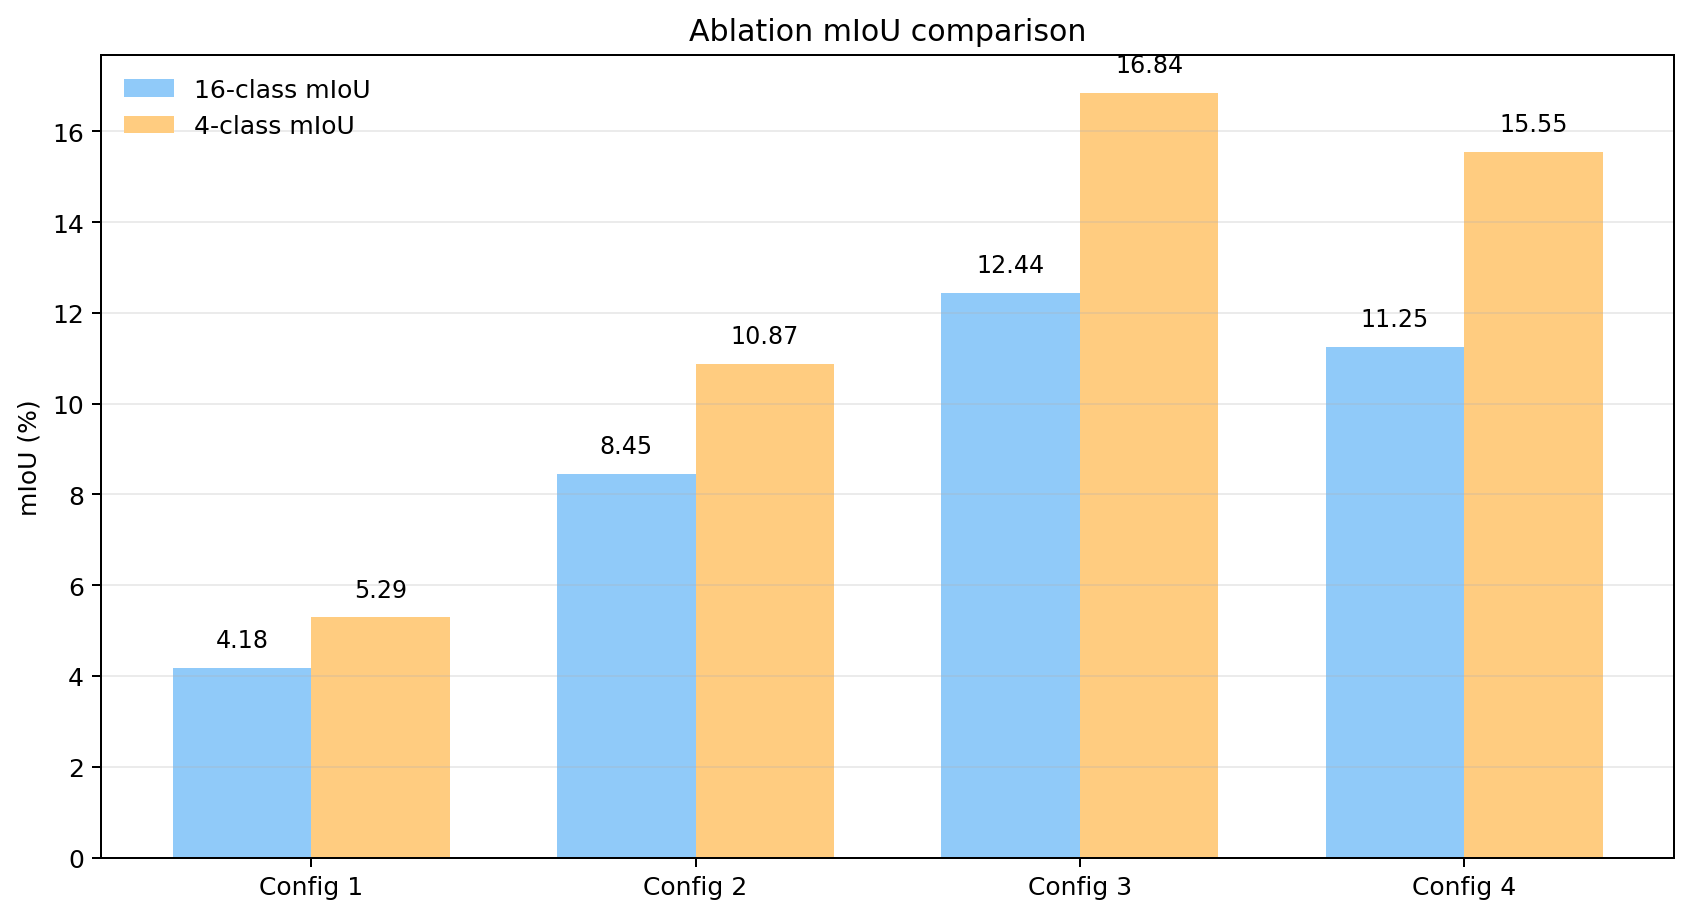
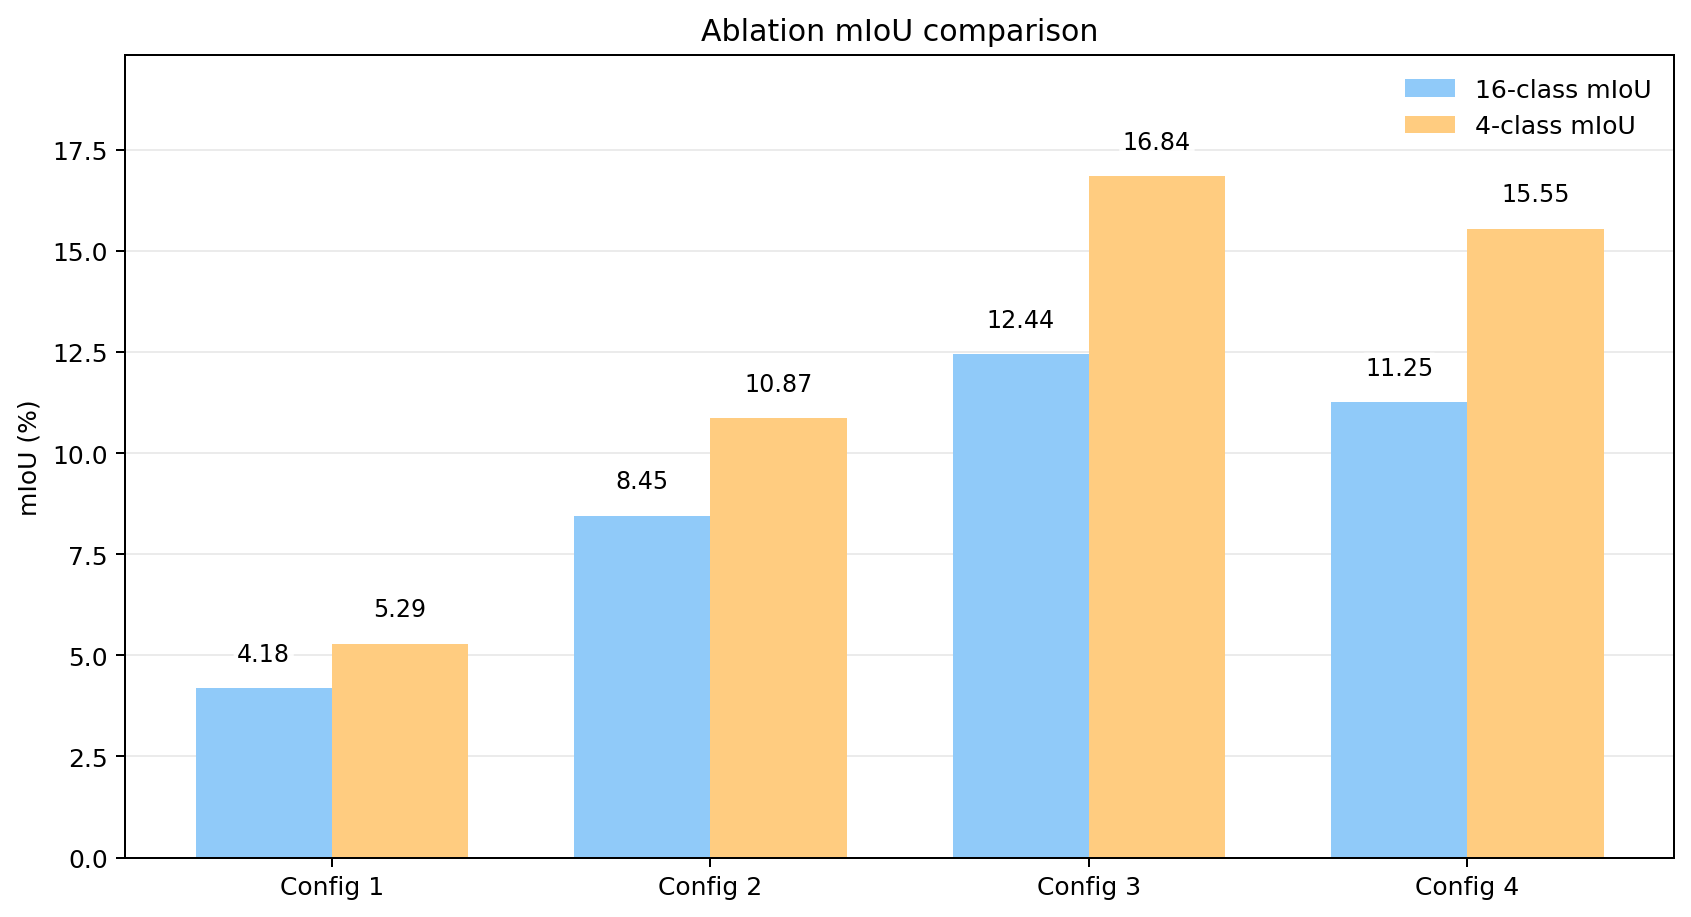
feat: update figure generation script with improved layout, styling, and legend for qualitative comparisons

diff --git a/scripts/generate_report_figures.py b/scripts/generate_report_figures.py
@@ -8,7 +8,7 @@ import matplotlib
 import matplotlib.pyplot as plt
 import numpy as np
 import torch
-from matplotlib.patches import FancyArrowPatch, Rectangle
+from matplotlib.patches import FancyArrowPatch, Patch, Rectangle
 
 matplotlib.use("Agg")
 
@@ -135,8 +135,8 @@ def make_tiling_grid(src_las: Path, tiling_meta_path: Path, out_path: Path):
                 block_size,
                 fill=False,
                 edgecolor="#ef6c00",
-                linewidth=0.45,
-                alpha=0.45,
+                linewidth=0.85,
+                alpha=0.5,
             )
             ax.add_patch(rect)
 
@@ -145,7 +145,17 @@ def make_tiling_grid(src_las: Path, tiling_meta_path: Path, out_path: Path):
     for (gx, gy), label in zip(highlighted, labels):
         rect = Rectangle((gx, gy), block_size, block_size, fill=False, edgecolor="#c62828", linewidth=1.6)
         ax.add_patch(rect)
-        ax.text(gx + 1.0, gy + block_size - 1.2, label, color="#c62828", fontsize=8, weight="bold")
+        ax.text(
+            gx + 1.2,
+            gy + block_size - 1.8,
+            label,
+            color="#c62828",
+            fontsize=10,
+            weight="bold",
+            va="top",
+            bbox={"boxstyle": "round,pad=0.2", "facecolor": "white", "edgecolor": "none", "alpha": 0.9},
+            zorder=6,
+        )
 
     ax.set_title(f"Tiling grid ({block_size:.0f}m block, {stride:.0f}m stride)")
     ax.set_xlabel("X")
@@ -245,7 +255,7 @@ def remap_16_to_4(pred16: np.ndarray) -> np.ndarray:
 
 
 def pick_comparison_tile_name(results_ablation_dir: Path):
-    preferred = "Fh_parking_outside_2025-09-19-17-08-32_Section_Section_normal_tile_0050.pth"
+    preferred = "Fh_parking_outside_2025-09-19-17-08-32_Section_Section_normal_tile_0020.pth"
     config_dirs = [
         results_ablation_dir / "config1_baseline",
         results_ablation_dir / "config2_zero",
@@ -276,7 +286,7 @@ def plot_semantic(ax, x, y, labels4, title):
     for cls_id, color in cmap.items():
         color_arr[labels4 == cls_id] = color
     ax.scatter(x, y, c=color_arr, s=1.2, alpha=0.9, linewidths=0)
-    ax.set_title(title, fontsize=10)
+    ax.set_title(title, fontsize=11)
     ax.set_aspect("equal")
     ax.set_xticks([])
     ax.set_yticks([])
@@ -294,14 +304,9 @@ def make_qualitative_comparison(processed_tiles_dir: Path, results_ablation_dir:
     idx = subsample_indices(coord.shape[0], max_points=180_000, seed=9)
     x = coord[idx, 0]
     y = coord[idx, 1]
-    z = coord[idx, 2]
 
-    fig, axes = plt.subplots(1, 5, figsize=(18, 4.2), dpi=180)
-    axes[0].scatter(x, y, c=z, cmap="viridis", s=1.1, alpha=0.9, linewidths=0)
-    axes[0].set_title("Raw geometry", fontsize=10)
-    axes[0].set_aspect("equal")
-    axes[0].set_xticks([])
-    axes[0].set_yticks([])
+    fig = plt.figure(figsize=(12.8, 9.2), dpi=180)
+    gs = fig.add_gridspec(2, 2, hspace=0.16, wspace=0.10)
 
     config_dirs = [
         ("Baseline", results_ablation_dir / "config1_baseline"),
@@ -310,15 +315,26 @@ def make_qualitative_comparison(processed_tiles_dir: Path, results_ablation_dir:
         ("Rings 0.03°", results_ablation_dir / "config4_velodyne_thin"),
     ]
 
-    for ax, (title, cdir) in zip(axes[1:], config_dirs):
+    positions = [(0, 0), (0, 1), (1, 0), (1, 1)]
+    for (row, col), (title, cdir) in zip(positions, config_dirs):
+        ax = fig.add_subplot(gs[row, col])
         logits = torch.load(cdir / tile_name, map_location="cpu", weights_only=False)
         pred16 = torch.argmax(logits, dim=1).cpu().numpy()
         pred4 = remap_16_to_4(pred16)
         pred4 = pred4[idx]
         plot_semantic(ax, x, y, pred4, title)
 
-    fig.suptitle(f"Qualitative comparison on {tile_name.replace('.pth', '')}", fontsize=11)
-    plt.tight_layout()
+    # Add legend for semantic classes
+    legend_elements = [
+        Patch(facecolor=SUPERCLASS_COLORS["vegetation"], label="Vegetation"),
+        Patch(facecolor=SUPERCLASS_COLORS["object"], label="Object"),
+        Patch(facecolor=SUPERCLASS_COLORS["ground"], label="Ground"),
+        Patch(facecolor=SUPERCLASS_COLORS["structure"], label="Structure"),
+    ]
+    fig.legend(handles=legend_elements, loc="lower center", ncol=4, frameon=False, fontsize=11, bbox_to_anchor=(0.5, 0.02))
+
+    fig.suptitle("Qualitative comparison", fontsize=14, weight="bold", x=0.5, y=0.985, ha="center")
+    fig.subplots_adjust(left=0.04, right=0.98, top=0.90, bottom=0.12)
     fig.savefig(out_path, bbox_inches="tight")
     plt.close(fig)
 
@@ -344,13 +360,25 @@ def make_ablation_miou(results_dir: Path, out_path: Path):
     ax.set_xticklabels(labels)
     ax.set_ylabel("mIoU (%)")
     ax.set_title("Ablation mIoU comparison")
+    max_bar = max(max(miou16), max(miou4))
+    ax.set_ylim(0, max_bar + 3.0)
+    ax.set_axisbelow(True)
     ax.grid(axis="y", alpha=0.25)
     ax.legend(frameon=False)
 
     for bars in (b1, b2):
         for bar in bars:
             h = bar.get_height()
-            ax.text(bar.get_x() + bar.get_width() / 2, h + 0.35, f"{h:.2f}", ha="center", va="bottom", fontsize=8)
+            ax.text(
+                bar.get_x() + bar.get_width() / 2,
+                h + 0.55,
+                f"{h:.2f}",
+                ha="center",
+                va="bottom",
+                fontsize=9.5,
+                bbox={"boxstyle": "round,pad=0.15", "facecolor": "white", "edgecolor": "none", "alpha": 0.9},
+                zorder=5,
+            )
 
     plt.tight_layout()
     fig.savefig(out_path, bbox_inches="tight")
